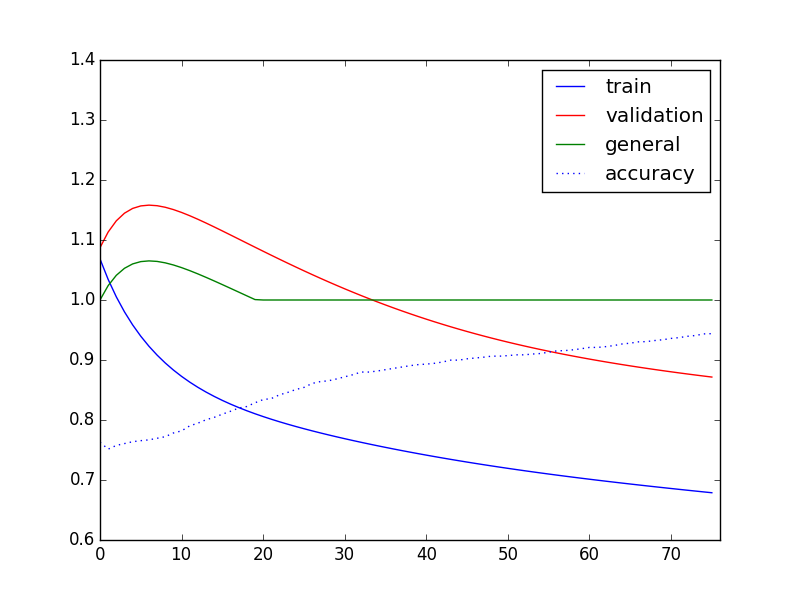
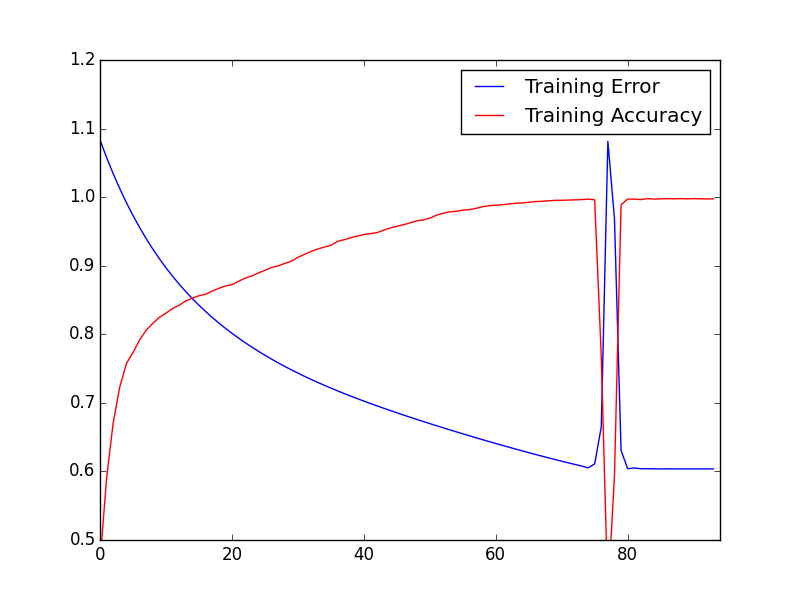
script for creating error/accuracy graphs after maxent classification

diff --git a/err_graphs.py b/err_graphs.py
@@ -19,9 +19,8 @@ def vecs(csvf):
 
 if __name__ == '__main__':
 	x1, y1 = vecs('terr.csv')
-	x2, y2 = vecs('verr.csv')
-	x3, y3 = vecs('acc.csv')
-	plt.plot(x1, y1, 'b-', x2, y2, 'r-', x3, y3, 'g-')
-	plt.axis([0, len(x1), 0.6, 1.4])
-	plt.legend(['Training Error', 'Validation Error', 'Training Accuracy'])
+	x2, y2 = vecs('acc.csv')
+	plt.plot(x1, y1, 'b-', x2, y2, 'r-')
+	plt.axis([0, len(x1), 0.5, 1.2])
+	plt.legend(['Training Error', 'Training Accuracy'])
 	plt.savefig('err.png')
